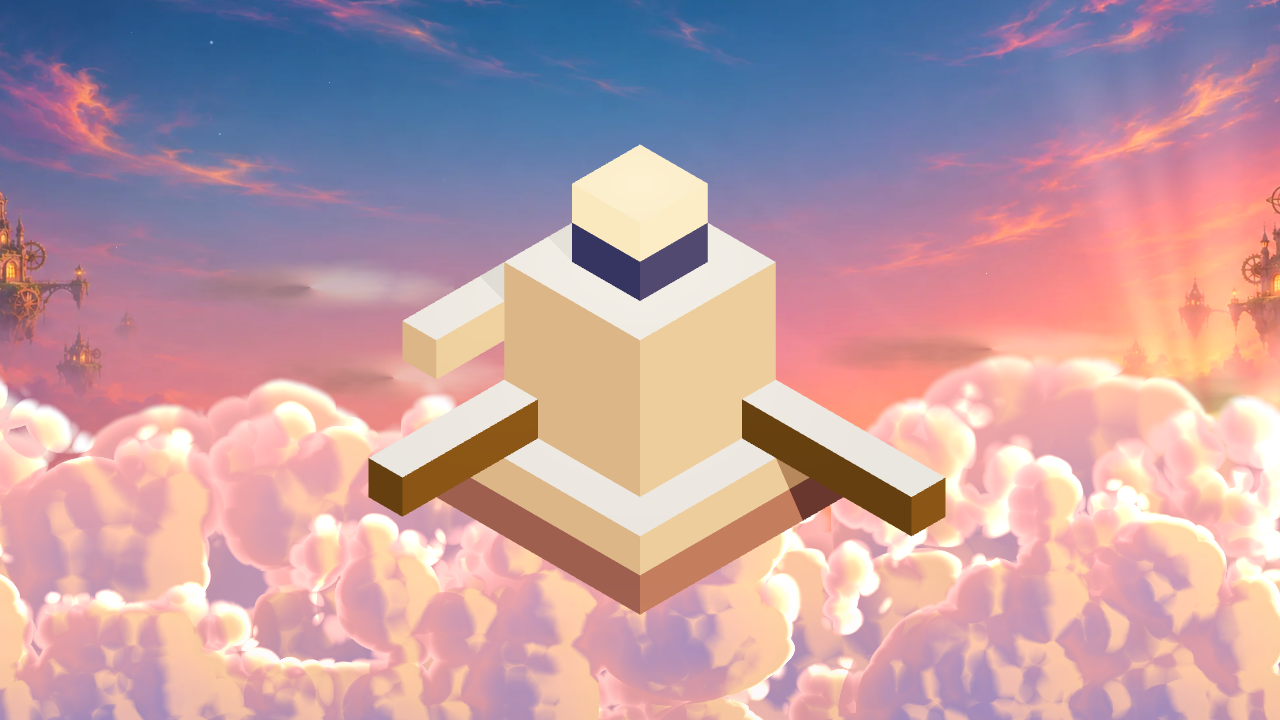
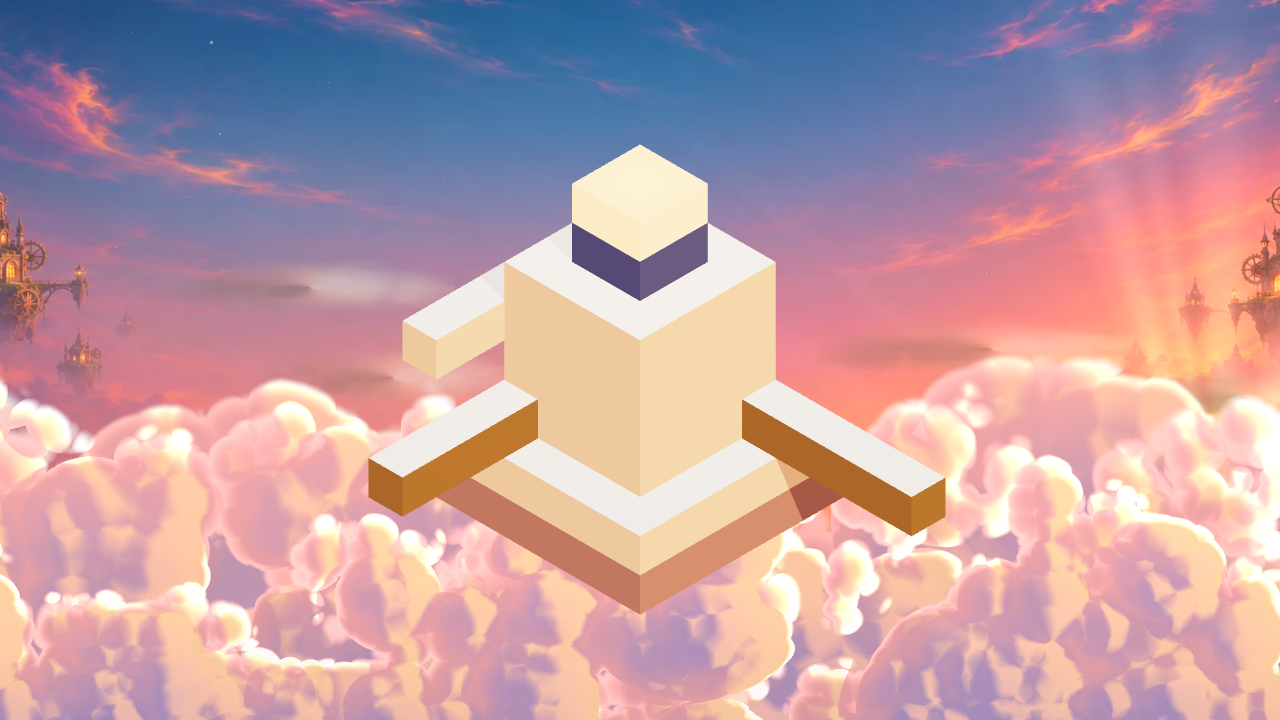
Spirelight: effects and synthesized audio module (Codex), harness verified
Claude-Session: https://claude.ai/code/session_01KHq9E4PP77B82NWFRYgzJt

Changed region(s): [[0.2812, 0.55, 0.5, 0.8556], [0.5625, 0.55, 0.75, 0.7639], [0.4375, 0.3056, 0.5625, 0.4278]]

diff --git a/spirelight/js/hero.js b/spirelight/js/hero.js
@@ -167,22 +167,22 @@
       0, 0.239, 0, 1, 1, 0.8, Math.PI / 2);
     ring(torso, 0, 0.218, 0, 0.096, Math.PI / 2, scarfMat);
     ball(torso, -0.094, 0.238, 0.093, 0.038, 0.035, 0.035, scarfMat);
-    var head = group(torso, "head", 0, 0.272, 0);
+    var head = group(torso, "head", 0, 0.265, 0);
     var globe = lathe([[0.114,0.008],[0.145,0.03],[0.173,0.067],[0.183,0.111],
-      [0.178,0.151],[0.159,0.19],[0.134,0.228],[0.127,0.241]]);
+      [0.178,0.151],[0.159,0.20],[0.134,0.248],[0.127,0.263]]);
     var glass = new THREE.Mesh(globe, glassMat); glass.name = "lantern glass"; glass.renderOrder = 3; head.add(glass);
     rod(head, 0, 0.009, 0, 0.12, 0.014);
     ring(head, 0, 0.017, 0, 0.115, Math.PI / 2);
-    rod(head, 0, 0.245, 0, 0.139, 0.01);
-    ring(head, 0, 0.245, 0, 0.135, Math.PI / 2);
-    var dome = lathe([[0.137,0.248],[0.127,0.259],[0.103,0.274],[0.07,0.284],[0.034,0.287],[0,0.288]]);
+    rod(head, 0, 0.267, 0, 0.139, 0.01);
+    ring(head, 0, 0.267, 0, 0.135, Math.PI / 2);
+    var dome = lathe([[0.137,0.271],[0.127,0.278],[0.103,0.285],[0.07,0.29],[0.034,0.292],[0,0.293]]);
     part(head, dome, brass);
-    rod(head, 0, 0.292, 0, 0.023, 0.009);
-    ball(head, 0, 0.302, 0, 0.014);
-    ring(head, 0, 0.327, 0, 0.03, 0);
+    rod(head, 0, 0.298, 0, 0.023, 0.009);
+    ball(head, 0, 0.309, 0, 0.014);
+    ring(head, 0, 0.334, 0, 0.03, 0);
     for (i = 0; i < 4; i++) {
       angle = Math.PI / 4 + i * Math.PI / 2;
-      var ribs = [], ribProfile = [[.116,.017],[.15,.04],[.176,.078],[.185,.117],[.175,.16],[.15,.204],[.13,.24]];
+      var ribs = [], ribProfile = [[.116,.017],[.15,.04],[.176,.078],[.185,.117],[.175,.16],[.15,.225],[.13,.263]];
       for (j = 0; j < ribProfile.length; j++) {
         ribs.push(new THREE.Vector3(Math.sin(angle) * ribProfile[j][0], ribProfile[j][1], Math.cos(angle) * ribProfile[j][0]));
       }
@@ -190,11 +190,11 @@
     }
     for (i = 0; i < 16; i++) {
       angle = i * Math.PI / 8;
-      ball(head, Math.sin(angle) * 0.128, 0.259, Math.cos(angle) * 0.128, 0.0045);
+      ball(head, Math.sin(angle) * 0.128, 0.278, Math.cos(angle) * 0.128, 0.0045);
       ball(head, Math.sin(angle) * 0.117, 0.013, Math.cos(angle) * 0.117, 0.005);
-      if (i % 2 === 0) ball(head, Math.sin(angle) * 0.129, 0.256, Math.cos(angle) * 0.129, 0.006, 0.002, 0.006, patina);
+      if (i % 2 === 0) ball(head, Math.sin(angle) * 0.129, 0.275, Math.cos(angle) * 0.129, 0.006, 0.002, 0.006, patina);
     }
-    var flame = group(head, "living flame", 0, 0.025, 0.038);
+    var flame = group(head, "living flame", 0, 0.025, 0.055);
     var flameShape = lathe([[0,0],[0.045,0.008],[0.074,0.03],[0.079,0.057],[0.066,0.083],
       [0.044,0.111],[0.027,0.137],[0.019,0.158],[0.009,0.178],[0,0.197]]);
     var fp = flameShape.attributes.position, colors = new Float32Array(fp.count * 3), color = new THREE.Color();
@@ -307,7 +307,7 @@
         tail.pin.copy(tail.anchor).applyMatrix4(torso.matrixWorld);
         tail.width.set(1, 0, 0).transformDirection(torso.matrixWorld);
         if (!scarfInitialized || teleport) for (var ni = 0; ni < nodes; ni++) {
-          cur[ni].set(tail.anchor.x - ni * 0.008, tail.anchor.y - ni * tail.length, tail.anchor.z + ni * 0.009).applyMatrix4(torso.matrixWorld);
+          cur[ni].set(tail.anchor.x - ni * (ti ? 0.012 : 0.002), tail.anchor.y - ni * tail.length, tail.anchor.z + ni * 0.009).applyMatrix4(torso.matrixWorld);
           prev[ni].copy(cur[ni]);
         }
         for (var sub = 0; sub < steps; sub++) {
@@ -417,7 +417,7 @@
         torso.rotation.z = gait * 0.025 * s + ride * Math.sin(t * 3) * 0.045 + bump * Math.sin(animTimes[4] * 22) * Math.exp(-animTimes[4] * 4) * 0.11;
         torso.scale.y = 1 + 0.008 * Math.sin(t * 2.6);
         var look = Math.sin(t * 0.69) * Math.pow(Math.max(0, Math.sin(t * 0.37)), 4);
-        head.position.y = 0.272 + celebrate * 0.025 + gait * 0.003 * Math.cos(phase * 2);
+        head.position.y = 0.265 + celebrate * 0.025 + gait * 0.003 * Math.cos(phase * 2);
         head.rotation.y = look * 0.5 * weights[0];
         head.rotation.z = bump * 0.28 + wave * 0.11 + ride * Math.sin(t * 2.4) * 0.04;
         head.rotation.x = bump * 0.12 - torso.rotation.x * 0.65;
@@ -454,7 +454,7 @@
         var flicker = 1 + 0.035 * Math.sin(t * 17) + 0.021 * Math.sin(t * 29 + 1) + bump * 0.045 * Math.sin(t * 51);
         var flameSize = (0.82 + glow * 0.18) * (1 + celebrate * 0.28);
         // A broad flare stays inside the glass, with breathing room below the cap.
-        flame.scale.set(flameSize * (2 - flicker), Math.min(1.07, flameSize * flicker), flameSize);
+        flame.scale.set(flameSize * (2 - flicker), Math.min(1.04, flameSize * flicker), Math.min(1.15, flameSize));
         flame.rotation.z = Math.sin(t * 11) * 0.025 + gait * s * 0.03;
         outer.scale.x = 1 + Math.sin(t * 13) * 0.025;
         tongue.scale.y = 1.03 + Math.sin(t * 19) * 0.025;
